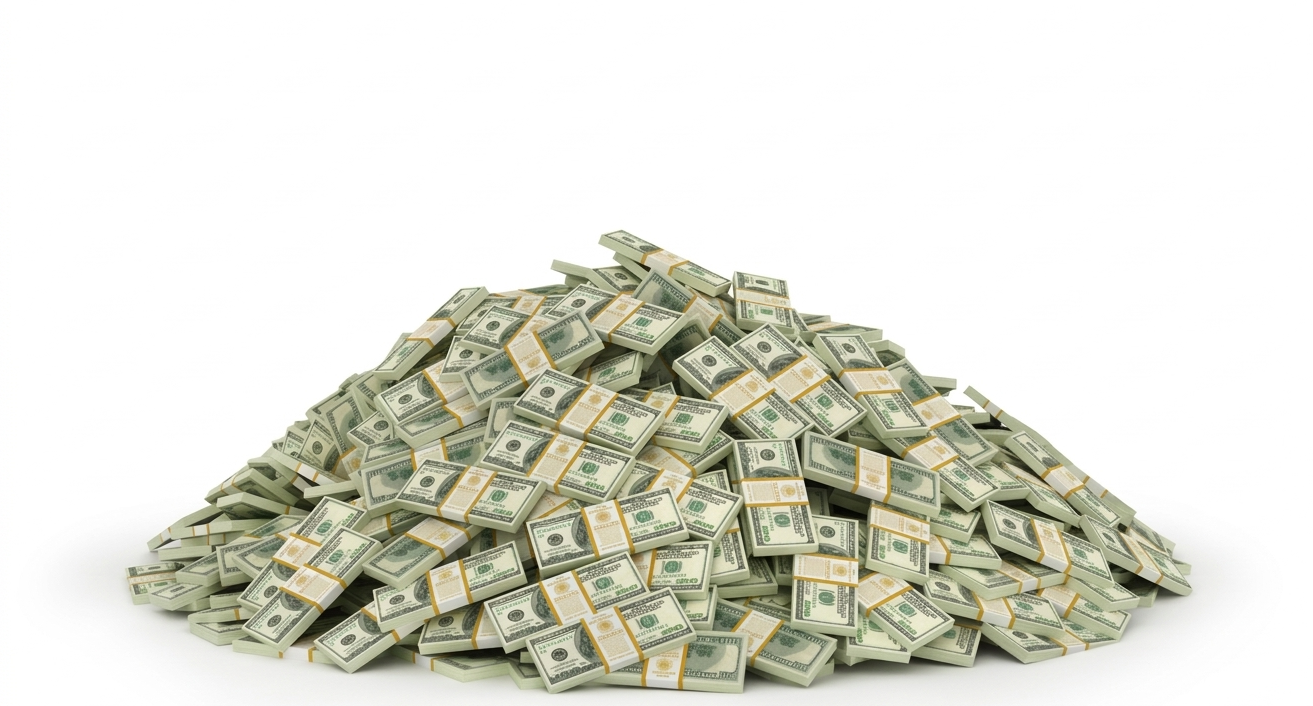
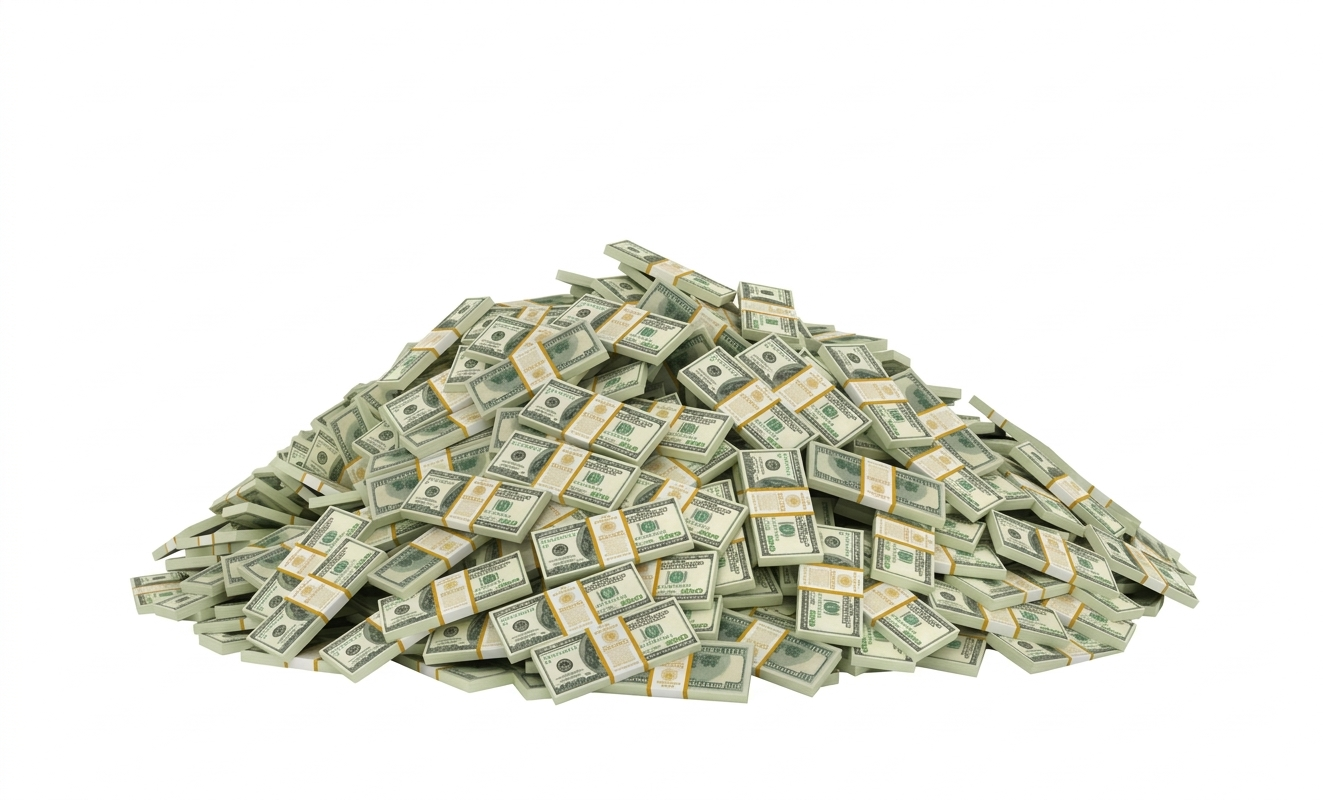
Rewrite animation as pure vanilla JS, remove GSAP dependency
Replaces GSAP ScrollTrigger with a lightweight vanilla JS scroll
handler using passive scroll listener, manual fixed-position pin,
and single rAF-batched opacity updates. Removes GSAP + ScrollTrigger
CDN scripts (~50KB saved) and all GPU hint CSS that was causing
excessive compositing overhead. Updates money_image.png.

diff --git a/tn-cash-for-homes/style.css b/tn-cash-for-homes/style.css
@@ -2530,10 +2530,6 @@ img { display: block; max-width: 100%; }
     max-height: 100vh;
     overflow: hidden;
     width: 100%;
-    -webkit-transform: translateZ(0);
-    transform: translateZ(0);
-    -webkit-perspective: 1000px;
-    perspective: 1000px;
 }
 
 .htc-inner {
@@ -2581,11 +2577,6 @@ img { display: block; max-width: 100%; }
     width: min(900px, 88vw);
     height: min(620px, 68vh);
     margin: 0;
-    isolation: isolate;
-    will-change: transform;
-    transform: translate3d(0, 0, 0);
-    backface-visibility: hidden;
-    -webkit-backface-visibility: hidden;
 }
 
 .htc-img {
@@ -2595,26 +2586,15 @@ img { display: block; max-width: 100%; }
     width: 100%;
     height: 100%;
     object-fit: contain;
-    will-change: opacity;
-    transform: translate3d(0, 0, 0);
-    backface-visibility: hidden;
-    -webkit-backface-visibility: hidden;
-    -webkit-transform: translateZ(0);
     pointer-events: none;
 }
 
 .htc-house-img {
     opacity: 1;
-    will-change: opacity;
-    transform: translateZ(0);
-    backface-visibility: hidden;
 }
 
 .htc-cash-img {
     opacity: 0;
-    will-change: opacity;
-    transform: translateZ(0);
-    backface-visibility: hidden;
 }
 
 .htc-headline {

diff --git a/tn-cash-for-homes/front-page.php b/tn-cash-for-homes/front-page.php
@@ -119,8 +119,6 @@
 
 <!-- ── HOUSE TO CASH ANIMATION ── -->
 <section class="house-to-cash-section" id="house-to-cash">
-  <link rel="preload" as="image" href="<?php echo get_template_directory_uri(); ?>/brand_assets/House_Image.png">
-  <link rel="preload" as="image" href="<?php echo get_template_directory_uri(); ?>/brand_assets/money_image.png">
   <div class="htc-inner">
     <div class="htc-label-row">
       <span class="htc-label htc-label-house">Your House</span>
@@ -135,74 +133,89 @@
   </div>
   <script>
   (function() {
-      window.addEventListener('load', function() {
-          if (typeof gsap === 'undefined' || typeof ScrollTrigger === 'undefined') return;
+      var section, houseImg, cashImg, headline, pinned = false, sectionTop = 0, pinHeight = 150, scrollY = 0;
 
-          gsap.registerPlugin(ScrollTrigger);
-
-          var section  = document.querySelector('.house-to-cash-section');
-          var houseImg = document.querySelector('.htc-house-img');
-          var cashImg  = document.querySelector('.htc-cash-img');
-          var headline = document.querySelector('.htc-headline');
-
+      function init() {
+          section  = document.querySelector('.house-to-cash-section');
+          houseImg = document.querySelector('.htc-house-img');
+          cashImg  = document.querySelector('.htc-cash-img');
+          headline = document.querySelector('.htc-headline');
           if (!section || !houseImg || !cashImg) return;
+          measure();
+          window.addEventListener('scroll', onScroll, { passive: true });
+          window.addEventListener('resize', measure, { passive: true });
+          onScroll();
+      }
 
-          houseImg.style.opacity = '1';
-          cashImg.style.opacity = '0';
-          if (headline) headline.style.opacity = '0';
+      function measure() {
+          if (section.style.position === 'fixed') {
+              section.style.position = '';
+              section.style.top = '';
+              section.style.left = '';
+              section.style.width = '';
+          }
+          sectionTop = section.getBoundingClientRect().top + window.pageYOffset;
+          section._placeholder && section._placeholder.remove();
+      }
 
-          requestAnimationFrame(function() {
-              requestAnimationFrame(function() {
+      function onScroll() {
+          scrollY = window.pageYOffset;
+          if (!pinned) requestAnimationFrame(render);
+          pinned = true;
+      }
 
-                  var currentHouse = 1, currentCash = 0, currentText = 0;
+      function render() {
+          pinned = false;
+          var start = sectionTop;
+          var end = start + pinHeight;
+          var y = scrollY;
 
-                  ScrollTrigger.create({
-                      trigger: section,
-                      start: 'top top',
-                      end: '+=150',
-                      pin: true,
-                      pinSpacing: true,
-                      pinType: 'fixed',
-                      anticipatePin: 0,
-                      scrub: true,
-                      fastScrollEnd: true,
-                      invalidateOnRefresh: true,
-                      onRefresh: function() {
-                          currentHouse = 1; currentCash = 0; currentText = 0;
-                          houseImg.style.opacity = '1';
-                          cashImg.style.opacity = '0';
-                          if (headline) headline.style.opacity = '0';
-                      }
-                  });
+          if (y >= start && y <= end) {
+              if (section.style.position !== 'fixed') {
+                  if (!section._placeholder) {
+                      var ph = document.createElement('div');
+                      ph.style.height = section.offsetHeight + pinHeight + 'px';
+                      section.parentNode.insertBefore(ph, section);
+                      section._placeholder = ph;
+                  }
+                  section.style.position = 'fixed';
+                  section.style.top = '0';
+                  section.style.left = '0';
+                  section.style.width = '100%';
+                  section.style.zIndex = '10';
+              }
+              var p = (y - start) / pinHeight;
+              var imgP = Math.min(p / 0.6, 1);
+              var textP = p > 0.6 ? (p - 0.6) / 0.4 : 0;
+              houseImg.style.opacity = (1 - imgP);
+              cashImg.style.opacity = imgP;
+              if (headline) headline.style.opacity = textP;
+          } else {
+              if (section.style.position === 'fixed') {
+                  section.style.position = '';
+                  section.style.top = '';
+                  section.style.left = '';
+                  section.style.width = '';
+                  section.style.zIndex = '';
+              }
+              if (y > end) {
+                  houseImg.style.opacity = '0';
+                  cashImg.style.opacity = '1';
+                  if (headline) headline.style.opacity = '1';
+              } else {
+                  houseImg.style.opacity = '1';
+                  cashImg.style.opacity = '0';
+                  if (headline) headline.style.opacity = '0';
+              }
+              if (section._placeholder) {
+                  section._placeholder.remove();
+                  section._placeholder = null;
+              }
+          }
+      }
 
-                  function lerp(a, b, t) { return a + (b - a) * t; }
-
-                  ScrollTrigger.addEventListener('refresh', function() {
-                      currentHouse = 1; currentCash = 0; currentText = 0;
-                  });
-
-                  var st = ScrollTrigger.getAll()[ScrollTrigger.getAll().length - 1];
-
-                  (function tick() {
-                      requestAnimationFrame(tick);
-                      if (!st) return;
-                      var p = st.progress;
-                      var targetHouse = 1 - Math.min(p / 0.6, 1);
-                      var targetCash = Math.min(p / 0.6, 1);
-                      var targetText = p > 0.6 ? Math.min((p - 0.6) / 0.4, 1) : 0;
-
-                      currentHouse = lerp(currentHouse, targetHouse, 0.15);
-                      currentCash = lerp(currentCash, targetCash, 0.15);
-                      currentText = lerp(currentText, targetText, 0.15);
-
-                      houseImg.style.opacity = currentHouse.toFixed(3);
-                      cashImg.style.opacity = currentCash.toFixed(3);
-                      if (headline) headline.style.opacity = currentText.toFixed(3);
-                  })();
-
-              });
-          });
-      });
+      if (document.readyState === 'complete') init();
+      else window.addEventListener('load', init);
   })();
   </script>
 </section>

diff --git a/tn-cash-for-homes/functions.php b/tn-cash-for-homes/functions.php
@@ -40,16 +40,6 @@ function tcfh_enqueue_assets() {
 add_action( 'wp_enqueue_scripts', 'tcfh_enqueue_assets' );
 
 /**
- * Enqueue GSAP + ScrollTrigger on the homepage only.
- */
-add_action('wp_enqueue_scripts', function() {
-    if (is_front_page()) {
-        wp_enqueue_script('gsap', 'https://cdnjs.cloudflare.com/ajax/libs/gsap/3.12.2/gsap.min.js', [], '3.12.2', true);
-        wp_enqueue_script('gsap-scrolltrigger', 'https://cdnjs.cloudflare.com/ajax/libs/gsap/3.12.2/ScrollTrigger.min.js', ['gsap'], '3.12.2', true);
-    }
-});
-
-/**
  * Output favicon link tags in <head>.
  */
 add_action( 'wp_head', function() {
